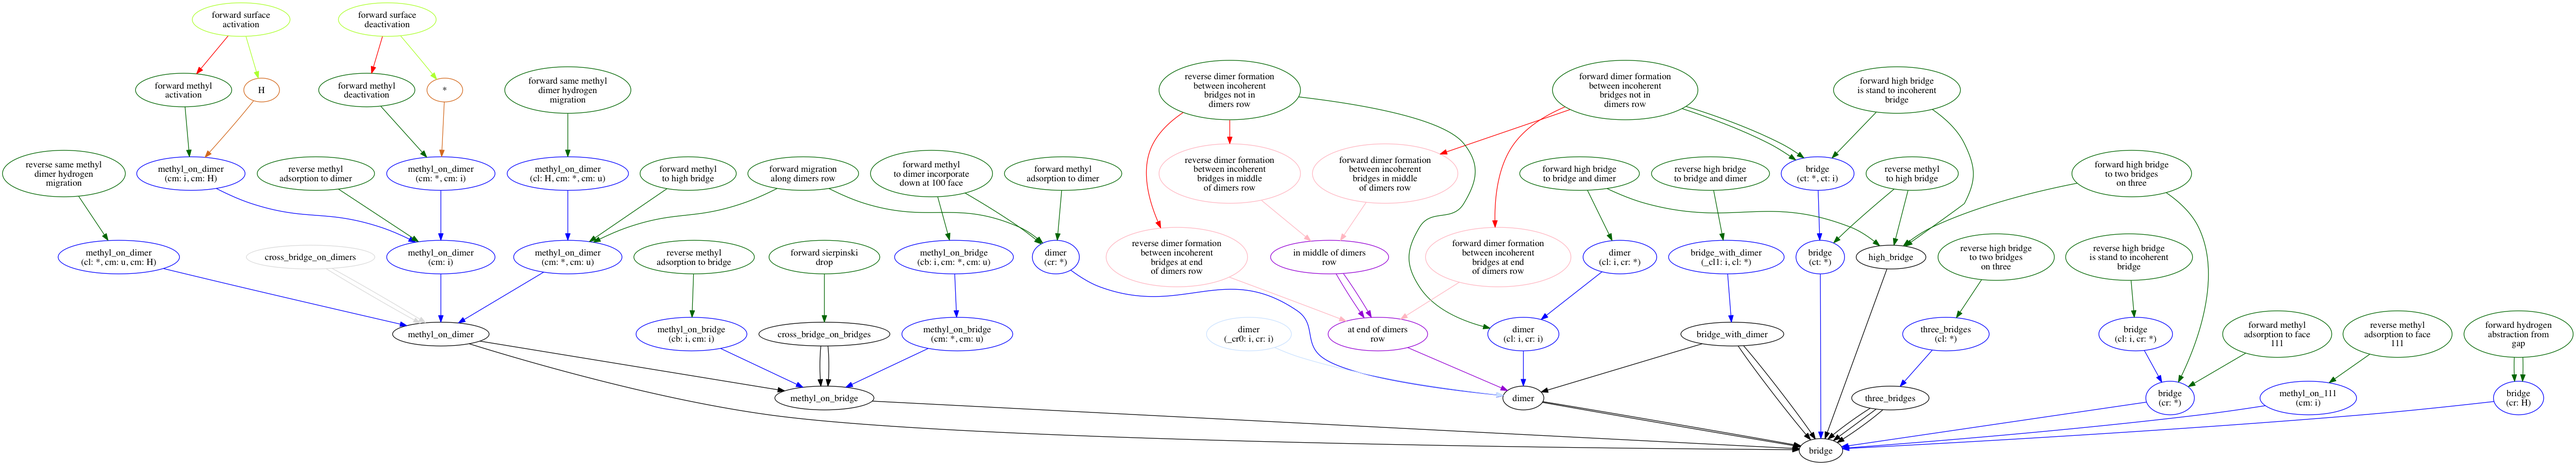
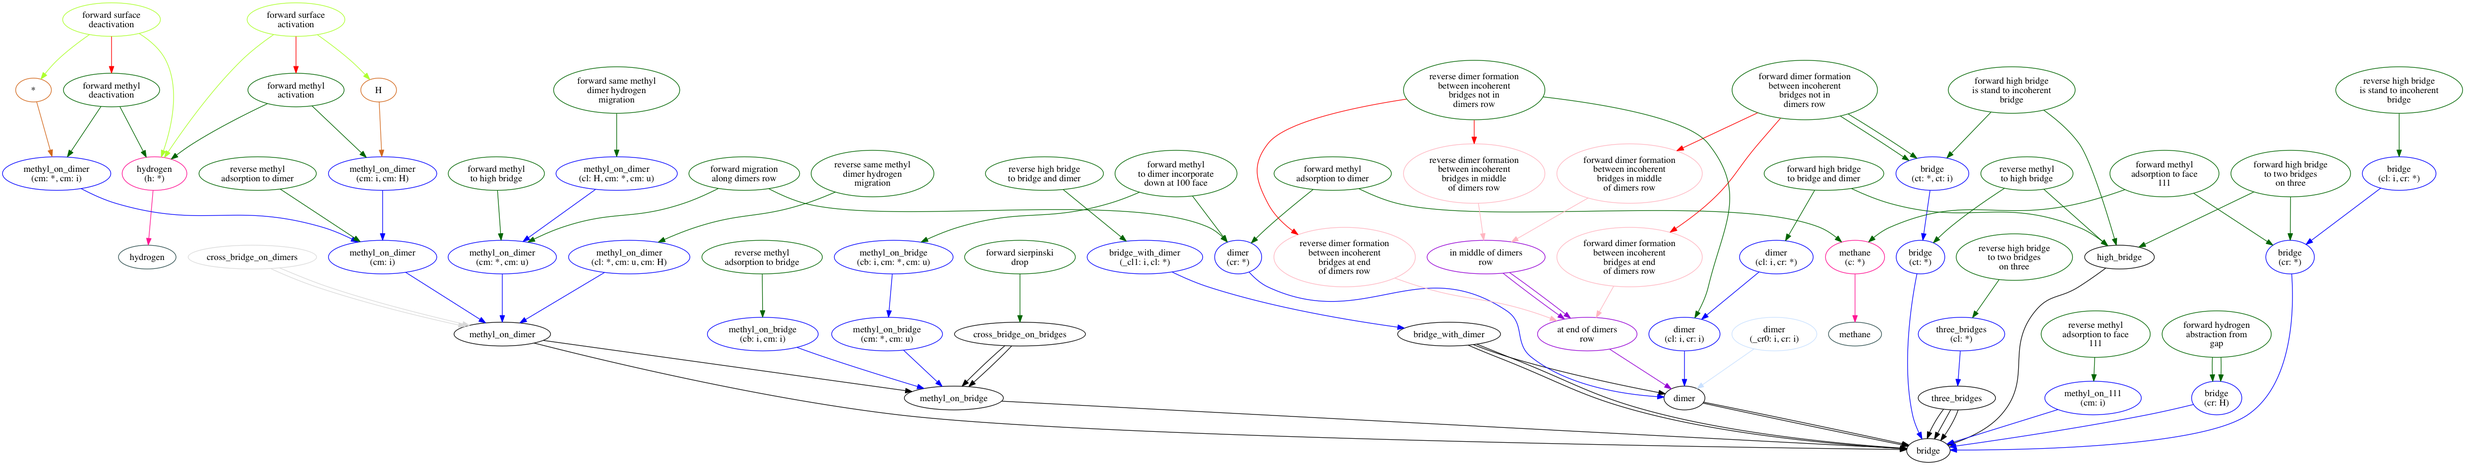
draw gas specs on total tree

diff --git a/analyzer/lib/generators/species_graph_generator.rb b/analyzer/lib/generators/species_graph_generator.rb
@@ -6,6 +6,8 @@ module VersatileDiamond
 
       BASE_REACTANT_SPEC_COLOR = 'black'
       BASE_SUPPLY_SPEC_COLOR = 'gray85'
+      GAS_BASE_SPEC_COLOR = 'darkslategrey'
+      GAS_SPECIFIC_SPEC_COLOR = 'deeppink1'
       SPECIFIC_REACTANT_SPEC_COLOR = 'blue'
       SPECIFIC_SUPPLY_SPEC_COLOR = 'lightsteelblue1'
       TERMINATION_SPEC_COLOR = 'chocolate'
@@ -22,9 +24,11 @@ module VersatileDiamond
 
       # Draws basic species and dependencies between them
       # @option [Boolean] :no_includes if true then includes doesn't shown
-      def draw_base_specs(specs = base_surface_specs, no_includes: false)
+      def draw_base_specs(specs = base_specs, no_includes: false)
         deps_method = !no_includes && method(:multiparents_deps)
-        reactants, supply = split_reactants(specs)
+        gas_specs = specs.select(&:gas?)
+        reactants, supply = split_reactants(specs.reject(&:gas?))
+        draw_specs(gas_specs, GAS_BASE_SPEC_COLOR, deps_method)
         draw_specs(reactants, BASE_REACTANT_SPEC_COLOR, deps_method)
         draw_specs(supply, BASE_SUPPLY_SPEC_COLOR, deps_method)
       end
@@ -33,10 +37,12 @@ module VersatileDiamond
       # draw dependencies from basic species
       #
       # @option [Boolean] :no_includes if true then includes doesn't shown
-      def draw_specific_specs(specs = specific_surface_specs, no_includes: false)
+      def draw_specific_specs(specs = specific_specs, no_includes: false)
         deps_method = !no_includes && method(:monoparent_deps)
         name_method = method(:split_specific_name)
-        reactants, supply = split_reactants(specs)
+        gas_specs, _ = split_reactants(specs.select(&:gas?))
+        reactants, supply = split_reactants(specs.reject(&:gas?))
+        draw_specs(gas_specs, GAS_SPECIFIC_SPEC_COLOR, deps_method, name_method)
         draw_specs(reactants, SPECIFIC_REACTANT_SPEC_COLOR, deps_method, name_method)
         draw_specs(supply, SPECIFIC_SUPPLY_SPEC_COLOR, deps_method, name_method)
       end
@@ -77,7 +83,7 @@ module VersatileDiamond
         specs.each do |spec|
           child_node = spec_node(spec)
           parent = spec.parents.first
-          parent_node = spec_node(parent)
+          parent_node = parent && spec_node(parent)
           if parent_node
             edge = graph.add_edges(child_node, parent_node)
             edge.set(&setup_block)

diff --git a/analyzer/lib/organizers/dependent_simple_spec.rb b/analyzer/lib/organizers/dependent_simple_spec.rb
@@ -25,6 +25,12 @@ module VersatileDiamond
         self.class == other.class && spec.same?(other.spec)
       end
 
+      # Simple spec without parents
+      # @return [Array] the empty array
+      def parents
+        spec.specific? ? [spec.spec] : []
+      end
+
       # Simple spec without anchors
       # @return [Array] the empty array
       def anchors
@@ -59,6 +65,11 @@ module VersatileDiamond
       # @return [Boolean] false
       def specific?
         true
+      end
+
+      # @return [Boolean]
+      def deep_reactant?
+        reactions.any? { |r| r.source.include?(spec) }
       end
 
       # Simple species are not excess

diff --git a/analyzer/lib/generators/base.rb b/analyzer/lib/generators/base.rb
@@ -110,7 +110,7 @@ module VersatileDiamond
         end
 
         result ||
-          if spec.class == Concepts::SpecificSpec
+          if spec.specific?
             dept_spec_spec = Organizers::DependentSpecificSpec.new(spec)
             dept_spec_spec.specific? ? dept_spec_spec : dept_base_spec(spec.spec)
           else

diff --git a/analyzer/lib/concepts/specific_spec.rb b/analyzer/lib/concepts/specific_spec.rb
@@ -55,6 +55,11 @@ module VersatileDiamond
         reset_caches!
       end
 
+      # @return [Boolean]
+      def specific?
+        true
+      end
+
       # Updates base spec from which dependent current specific spec
       # @param [Spec] new_spec the new base spec
       def replace_base_spec(new_spec)

diff --git a/analyzer/lib/concepts/spec.rb b/analyzer/lib/concepts/spec.rb
@@ -58,6 +58,11 @@ module VersatileDiamond
         false
       end
 
+      # @return [Boolean]
+      def specific?
+        false
+      end
+
       # @return [Boolean] has been specie extended or not
       def extended?
         @is_extended
